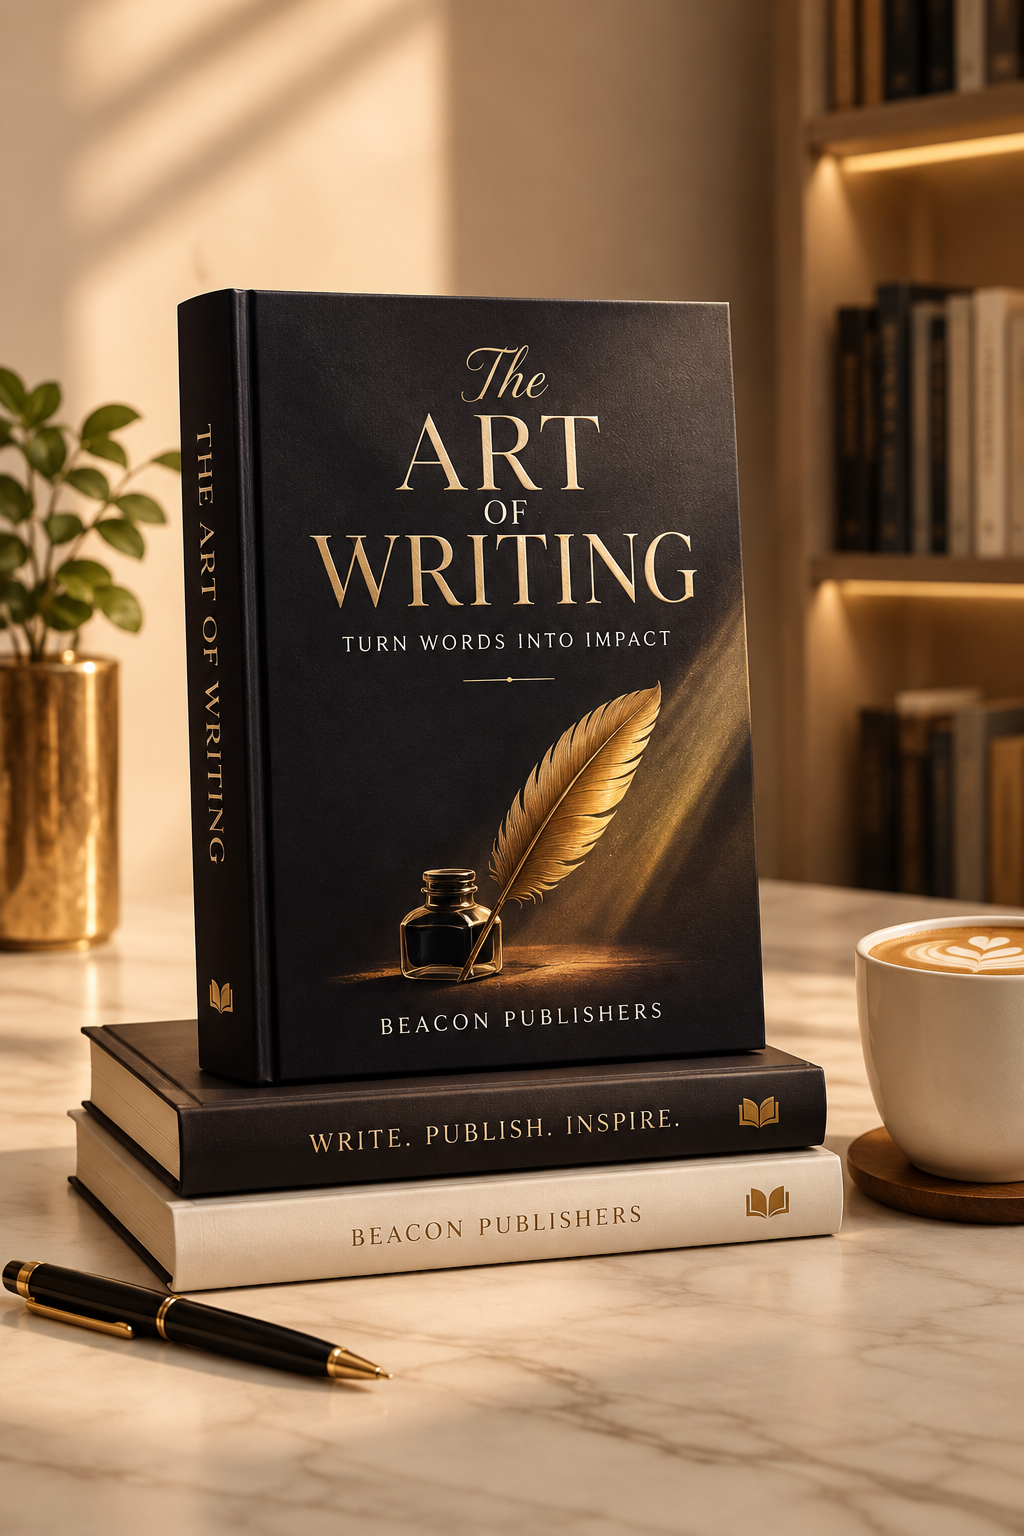
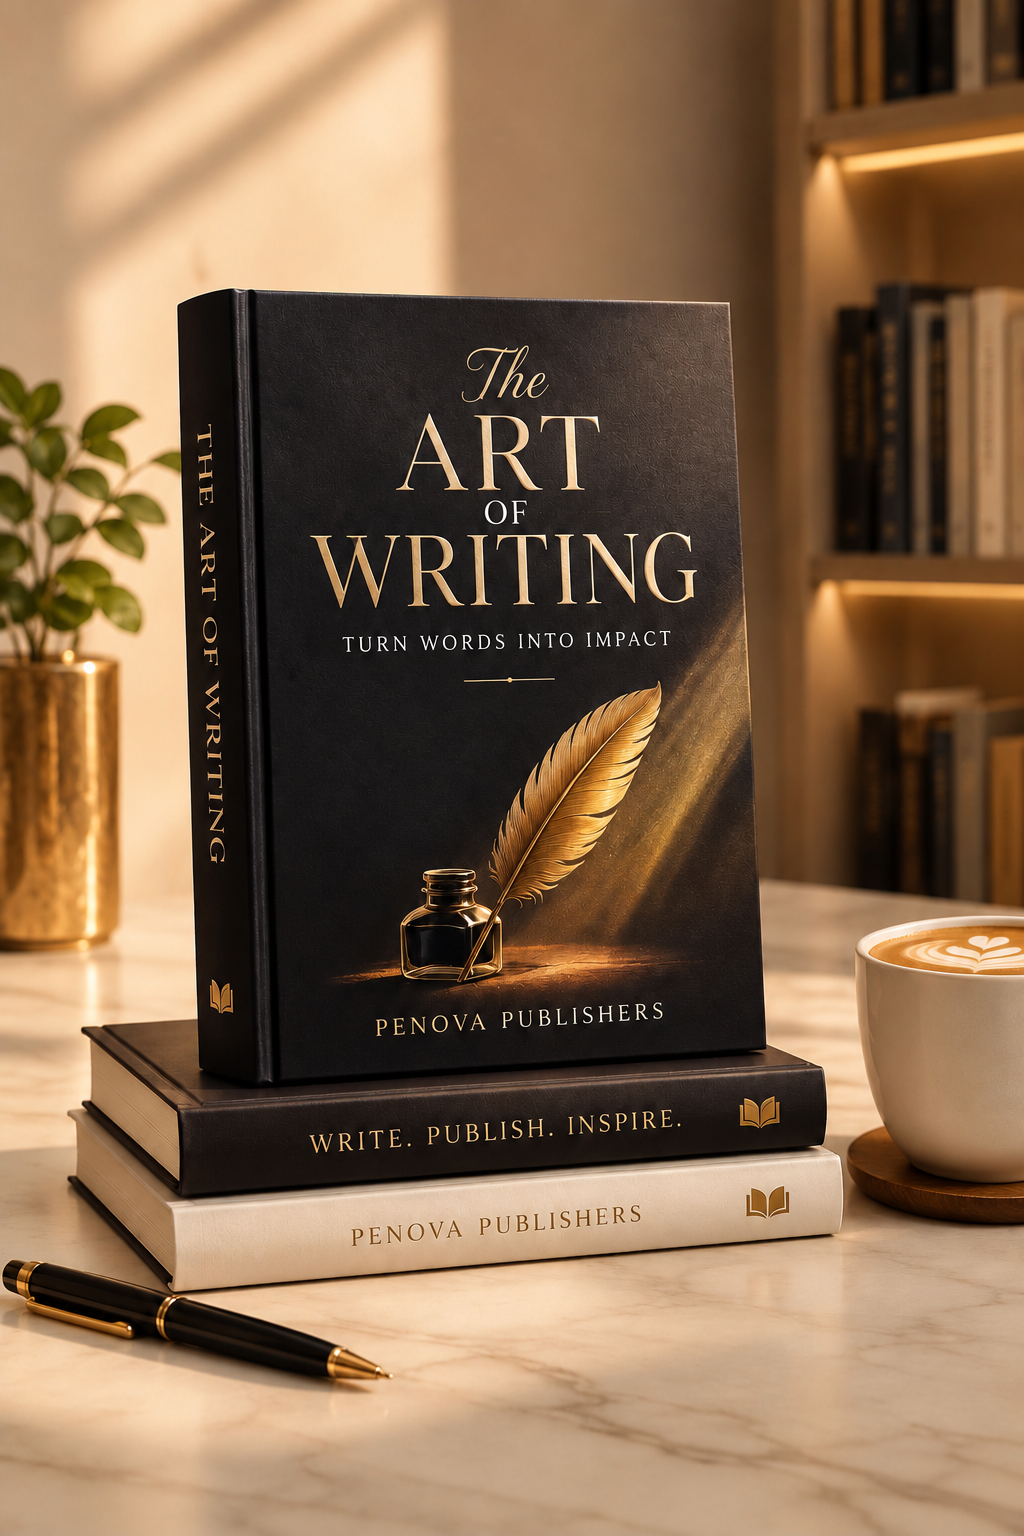
push to git

diff --git a/src/routeTree.gen.ts b/src/routeTree.gen.ts
@@ -17,7 +17,6 @@ import { Route as EditingRouteImport } from './routes/editing'
 import { Route as GhostwritingRouteImport } from './routes/ghostwriting'
 import { Route as IllustrationRouteImport } from './routes/illustration'
 import { Route as MarketingRouteImport } from './routes/marketing'
-import { Route as OfferRouteImport } from './routes/offer'
 import { Route as PrivacyRouteImport } from './routes/privacy'
 import { Route as PrivacyChoicesRouteImport } from './routes/privacy-choices'
 import { Route as PublishingRouteImport } from './routes/publishing'
@@ -64,11 +63,6 @@ const MarketingRoute = MarketingRouteImport.update({
   path: '/marketing',
   getParentRoute: () => rootRouteImport,
 } as any)
-const OfferRoute = OfferRouteImport.update({
-  id: '/offer',
-  path: '/offer',
-  getParentRoute: () => rootRouteImport,
-} as any)
 const PrivacyRoute = PrivacyRouteImport.update({
   id: '/privacy',
   path: '/privacy',
@@ -104,7 +98,6 @@ export interface FileRoutesByFullPath {
   '/ghostwriting': typeof GhostwritingRoute
   '/illustration': typeof IllustrationRoute
   '/marketing': typeof MarketingRoute
-  '/offer': typeof OfferRoute
   '/privacy': typeof PrivacyRoute
   '/privacy-choices': typeof PrivacyChoicesRoute
   '/publishing': typeof PublishingRoute
@@ -120,7 +113,6 @@ export interface FileRoutesByTo {
   '/ghostwriting': typeof GhostwritingRoute
   '/illustration': typeof IllustrationRoute
   '/marketing': typeof MarketingRoute
-  '/offer': typeof OfferRoute
   '/privacy': typeof PrivacyRoute
   '/privacy-choices': typeof PrivacyChoicesRoute
   '/publishing': typeof PublishingRoute
@@ -137,7 +129,6 @@ export interface FileRoutesById {
   '/ghostwriting': typeof GhostwritingRoute
   '/illustration': typeof IllustrationRoute
   '/marketing': typeof MarketingRoute
-  '/offer': typeof OfferRoute
   '/privacy': typeof PrivacyRoute
   '/privacy-choices': typeof PrivacyChoicesRoute
   '/publishing': typeof PublishingRoute
@@ -155,7 +146,6 @@ export interface FileRouteTypes {
     | '/ghostwriting'
     | '/illustration'
     | '/marketing'
-    | '/offer'
     | '/privacy'
     | '/privacy-choices'
     | '/publishing'
@@ -171,7 +161,6 @@ export interface FileRouteTypes {
     | '/ghostwriting'
     | '/illustration'
     | '/marketing'
-    | '/offer'
     | '/privacy'
     | '/privacy-choices'
     | '/publishing'
@@ -187,7 +176,6 @@ export interface FileRouteTypes {
     | '/ghostwriting'
     | '/illustration'
     | '/marketing'
-    | '/offer'
     | '/privacy'
     | '/privacy-choices'
     | '/publishing'
@@ -204,7 +192,6 @@ export interface RootRouteChildren {
   GhostwritingRoute: typeof GhostwritingRoute
   IllustrationRoute: typeof IllustrationRoute
   MarketingRoute: typeof MarketingRoute
-  OfferRoute: typeof OfferRoute
   PrivacyRoute: typeof PrivacyRoute
   PrivacyChoicesRoute: typeof PrivacyChoicesRoute
   PublishingRoute: typeof PublishingRoute
@@ -270,13 +257,6 @@ declare module '@tanstack/react-router' {
       preLoaderRoute: typeof MarketingRouteImport
       parentRoute: typeof rootRouteImport
     }
-    '/offer': {
-      id: '/offer'
-      path: '/offer'
-      fullPath: '/offer'
-      preLoaderRoute: typeof OfferRouteImport
-      parentRoute: typeof rootRouteImport
-    }
     '/privacy': {
       id: '/privacy'
       path: '/privacy'
@@ -324,7 +304,6 @@ const rootRouteChildren: RootRouteChildren = {
   GhostwritingRoute: GhostwritingRoute,
   IllustrationRoute: IllustrationRoute,
   MarketingRoute: MarketingRoute,
-  OfferRoute: OfferRoute,
   PrivacyRoute: PrivacyRoute,
   PrivacyChoicesRoute: PrivacyChoicesRoute,
   PublishingRoute: PublishingRoute,

diff --git a/src/components/sticky-side-icons.tsx b/src/components/sticky-side-icons.tsx
@@ -8,31 +8,31 @@ import { Link } from "@tanstack/react-router";
 const socialLinks = [
   {
     icon: FaFacebookF,
-    href: "#facebook",
+    href: "https://www.facebook.com/Penovapublishers/",
     label: "Facebook",
     ariaLabel: "Visit our Facebook page",
   },
   {
     icon: FaInstagram,
-    href: "#instagram",
+    href: "https://www.instagram.com/",
     label: "Instagram",
     ariaLabel: "Visit our Instagram page",
   },
   {
     icon: FaLinkedinIn,
-    href: "#linkedin",
+    href: "https://www.linkedin.com/company/penovapublishers/",
     label: "LinkedIn",
     ariaLabel: "Visit our LinkedIn page",
   },
   {
     icon: FaPinterestP,
-    href: "#pinterest",
+    href: "https://pin.it/3FGiGAFKg",
     label: "Pinterest",
     ariaLabel: "Visit our Pinterest page",
   },
   {
     icon: FaTiktok,
-    href: "#tiktok",
+    href: "https://www.tiktok.com/",
     label: "TikTok",
     ariaLabel: "Visit our TikTok page",
   },
@@ -54,9 +54,24 @@ const contactLinks = [
 ];
 
 const reviewLinks = [
-  { label: "Trustpilot", mark: SiTrustpilot, className: "text-[#00b67a]" },
-  { label: "Trustindex", mark: "T", className: "text-white" },
-  { label: "Sortlist", mark: "S", className: "text-[#ff6b35]" },
+  {
+    label: "Trustpilot",
+    mark: SiTrustpilot,
+    className: "text-[#00b67a]",
+    href: "https://www.trustpilot.com/review/penovapublishers.com",
+  },
+  {
+    label: "Trustindex",
+    mark: "T",
+    className: "text-white",
+    href: "https://www.trustindex.io/reviews/penovapublishers.com",
+  },
+  {
+    label: "Sortlist",
+    mark: "S",
+    className: "text-[#ff6b35]",
+    href: "https://www.sortlist.com/agency/penova-publishers",
+  },
 ];
 
 export function StickySideIcons() {
@@ -121,7 +136,9 @@ function ReviewLink({
 
   return (
     <a
-      href="#"
+      href={link.href}
+      target="_blank"
+      rel="noopener noreferrer"
       aria-label={`View our ${link.label} reviews`}
       title={link.label}
       className="group flex h-12 w-12 items-center justify-center text-sm font-bold transition-colors duration-300 hover:bg-gold/10"
@@ -143,6 +160,8 @@ function SidebarIcon({
   return (
     <a
       href={link.href}
+      target="_blank"
+      rel="noopener noreferrer"
       aria-label={link.ariaLabel}
       className="group flex h-12 w-12 items-center justify-center text-gold/60 transition-colors duration-300 hover:bg-gold/10 hover:text-gold"
       title={link.label}

diff --git a/src/components/site-footer.tsx b/src/components/site-footer.tsx
@@ -7,11 +7,31 @@ import { SERVICES } from "@/lib/site-data";
 import { toast } from "sonner";
 
 const socials = [
-  { label: "Facebook", Icon: FaFacebookF },
-  { label: "Instagram", Icon: FaInstagram },
-  { label: "LinkedIn", Icon: FaLinkedinIn },
-  { label: "Pinterest", Icon: FaPinterestP },
-  { label: "TikTok", Icon: FaTiktok },
+  {
+    label: "Facebook",
+    href: "https://www.facebook.com/Penovapublishers/",
+    Icon: FaFacebookF,
+  },
+  {
+    label: "Instagram",
+    href: "https://www.instagram.com/",
+    Icon: FaInstagram,
+  },
+  {
+    label: "LinkedIn",
+    href: "https://www.linkedin.com/company/penovapublishers/",
+    Icon: FaLinkedinIn,
+  },
+  {
+    label: "Pinterest",
+    href: "https://pin.it/3FGiGAFKg",
+    Icon: FaPinterestP,
+  },
+  {
+    label: "TikTok",
+    href: "https://www.tiktok.com/",
+    Icon: FaTiktok,
+  },
 ];
 
 export function SiteFooter() {
@@ -26,10 +46,12 @@ export function SiteFooter() {
               who intend to be read.
             </p>
             <div className="mt-6 flex gap-3">
-              {socials.map(({ label, Icon }) => (
+              {socials.map(({ label, href, Icon }) => (
                 <a
                   key={label}
-                  href="#"
+                  href={href}
+                  target="_blank"
+                  rel="noopener noreferrer"
                   aria-label={label}
                   className="inline-flex h-10 w-10 items-center justify-center rounded-sm border border-on-navy/20 text-on-navy transition-colors hover:border-gold hover:text-gold"
                 >
@@ -66,11 +88,6 @@ export function SiteFooter() {
                   className="text-on-navy-muted transition-colors hover:text-gold"
                 >
                   Contact
-                </Link>
-              </li>
-              <li>
-                <Link to="/offer" className="text-on-navy-muted transition-colors hover:text-gold">
-                  Author Starter Offer
                 </Link>
               </li>
               <li>

diff --git a/src/routes/publishing.tsx b/src/routes/publishing.tsx
@@ -26,7 +26,7 @@ import { HeroForm } from "@/components/home/hero-form";
 import { PublishingForm } from "@/components/forms/publishing-form";
 import { cn } from "@/lib/utils";
 import publishingBanner from "@/assets/publishing banner.jpg";
-import pubMockup from "@/assets/pub mockup.png";
+import penovaMockup from "@/assets/penove mockup.png";
 import publishingProcessImg from "@/assets/publishing-process.jpg";
 import publishingDistributionImg from "@/assets/publishing-distribution.jpg";
 import publishingCoverImg from "@/assets/publishing-cover.jpg";
@@ -441,8 +441,8 @@ function Page() {
             <div className="absolute -inset-4 rounded-3xl bg-gradient-to-br from-gold/20 via-gold/5 to-transparent blur-2xl pointer-events-none" />
             <div className="relative rounded-2xl overflow-hidden shadow-[0_30px_70px_-20px_rgba(15,23,63,0.35)] ring-1 ring-gold/20">
               <img
-                src={pubMockup}
-                alt="Published book mockup"
+                src={penovaMockup}
+                alt="Penova publishing mockup"
                 className="w-full h-auto object-contain block"
               />
             </div>

diff --git a/src/routes/childrens-books.tsx b/src/routes/childrens-books.tsx
@@ -612,7 +612,7 @@ function Page() {
           <div style={{ textAlign: "center", marginBottom: 64 }}>
             <div style={{ display: "inline-flex", alignItems: "center", gap: 8, background: "#4ECDC418", border: "2px solid #4ECDC430", borderRadius: 999, padding: "6px 18px", marginBottom: 20 }}>
               <span style={{ fontSize: 16 }}>💡</span>
-              <span style={{ fontFamily: "'Manrope', sans-serif", fontSize: 11, fontWeight: 700, letterSpacing: "0.18em", textTransform: "uppercase", color: "#4ECDC4" }}>Why choose beacon</span>
+              <span style={{ fontFamily: "'Manrope', sans-serif", fontSize: 11, fontWeight: 700, letterSpacing: "0.18em", textTransform: "uppercase", color: "#4ECDC4" }}>Why choose Penova</span>
             </div>
             <h2 style={{ fontFamily: "'Cormorant Garamond', Georgia, serif", fontSize: "clamp(2.2rem, 4vw, 3.5rem)", fontWeight: 700, color: "#1a1a2e", lineHeight: 1.1, marginBottom: 16 }}>
               Publishing that puts the{" "}
